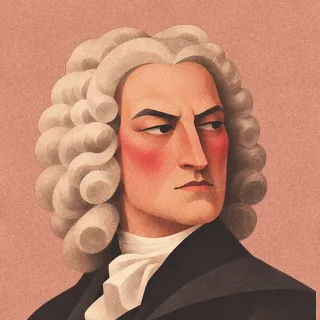
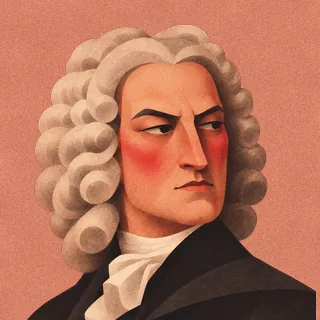
Composer art: less lift on the figures and slightly fuller backdrops (none washed out)
Claude-Session: https://claude.ai/code/session_01J9nR1BmP9TjDnKqecdbpyd

diff --git a/scripts/art/composers.py b/scripts/art/composers.py
@@ -12,7 +12,7 @@ from PIL import Image, ImageFilter
 # backdrops: pale, distinct tints, each the complement of the costume's main colour (a red coat on aqua, a green
 # coat on blush; black coats on warm tints, a few soft reds); the originals' own
 # backdrops were deep reds that looked alike side by side
-COLS = json.loads('{"handel": "#79aaa4", "mozart": "#9cc3cf", "vivaldi": "#a9c79a", "haydn": "#e5aeb6", "beethoven": "#a6d1bd", "rossini": "#a9cfd2", "verdi": "#e7c9a1", "wagner": "#b8bf8e", "brahms": "#9fa7d9", "puccini": "#a7bfdc", "bach": "#d6907a", "tchaikovsky": "#cd8a82", "faure": "#e6b892", "bizet": "#dfc781", "rstrauss": "#b5a6d6"}')
+COLS = json.loads('{"handel": "#6ea7a0", "mozart": "#8dbdcc", "vivaldi": "#9ec38c", "haydn": "#e49ca6", "beethoven": "#97cdb4", "rossini": "#9acace", "verdi": "#e7c08d", "wagner": "#b3bc81", "brahms": "#8e98d7", "puccini": "#96b4da", "bach": "#d78268", "tchaikovsky": "#cc7c72", "faure": "#e8ae7e", "bizet": "#e0c46e", "rstrauss": "#a996d3"}')
 CUT = {"handel":"38e4289f22ea","mozart":"ecf959a526d6","vivaldi":"27d33c8fb60d","faure":"ffdd2db6ba62","puccini":"d0d65df90166","tchaikovsky":"a218febde4e9","bizet":"24f075fbd806","rstrauss":"08d635be10fb","wagner":"b0c402cd1a7a","rossini":"c87a9944d0d0","brahms":"9e744d05b498","beethoven":"fd51184d3a32","haydn":"97549252bd2a","verdi":"ce265d70f0b1","bach":"317f7027ec20"}
 full = {h[:12]: h for h in os.listdir(os.path.join(FIG, 'images'))}
 def grain(size, seed, strength=7.0):
@@ -28,7 +28,7 @@ def grain(size, seed, strength=7.0):
 # the figures were painted for deep red backdrops: on pale ones they read heavy. A gentle lift (exposure), softer
 # blacks, a little less saturation (the red cheeks), and a breath of the backdrop's colour in the shadows so the
 # figure sits in its light.
-EXPOSURE, BLACKS, SAT, AMBIENT = 1.18, 0.07, 0.88, 0.10
+EXPOSURE, BLACKS, SAT, AMBIENT = 1.07, 0.02, 0.96, 0.07
 def tone(fig, bgc):
     luma = (fig * np.array([0.299, 0.587, 0.114], np.float32)).sum(-1, keepdims=True)
     fig = luma + (fig - luma) * SAT
